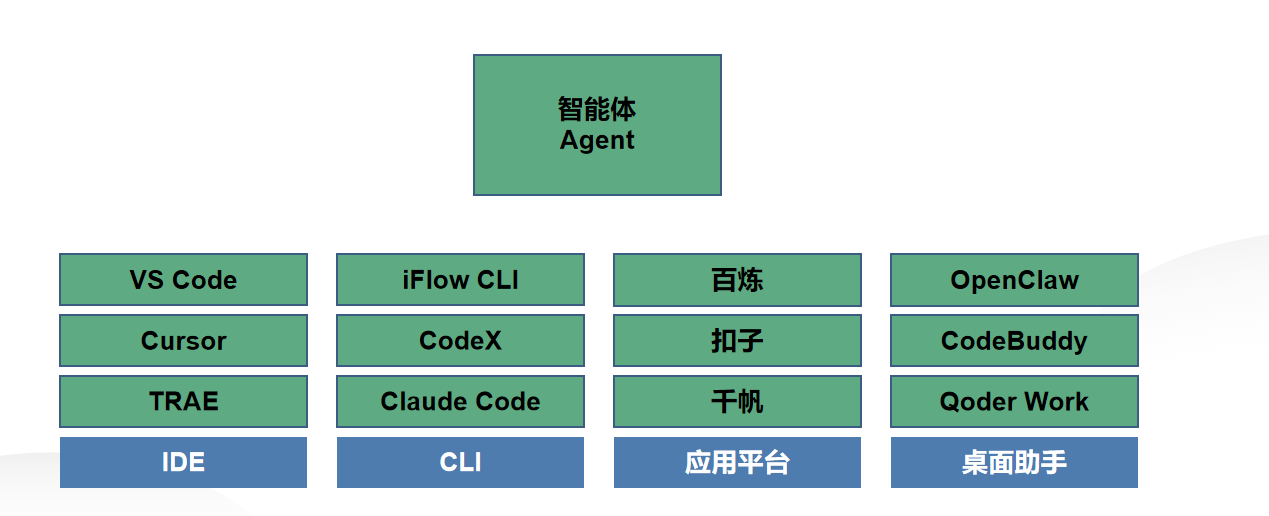
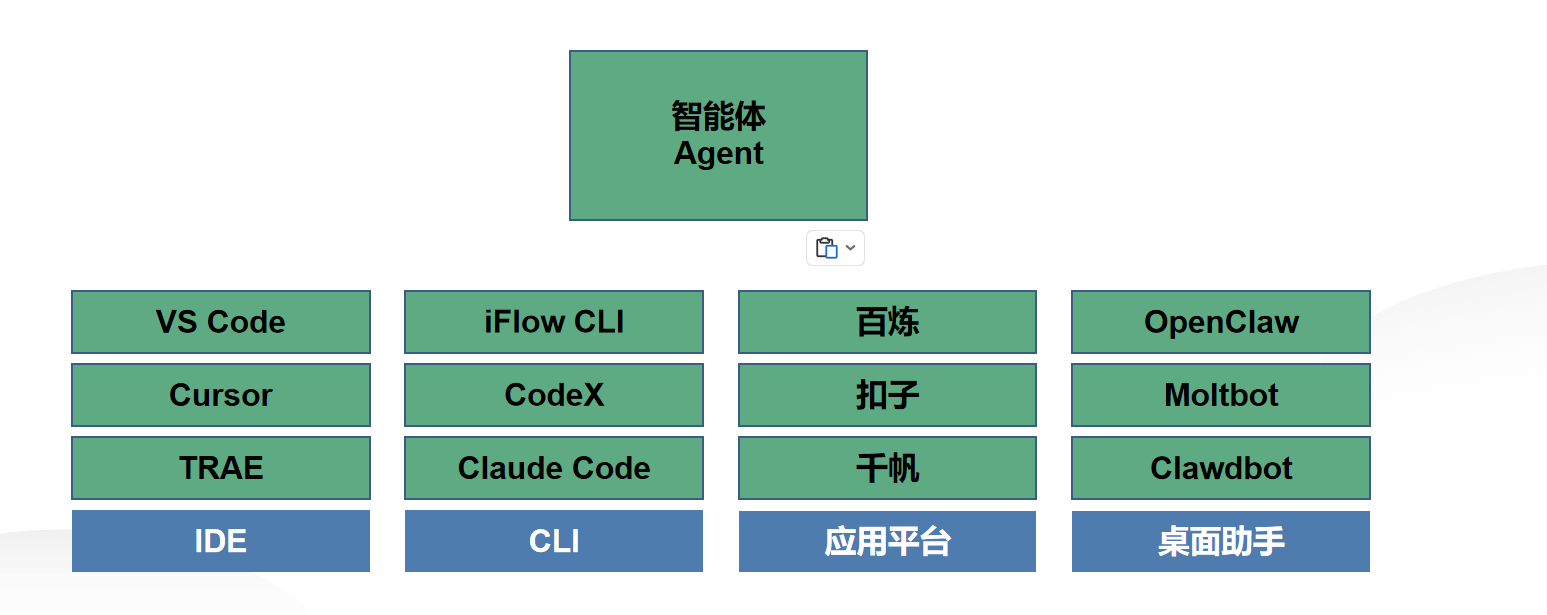
feat: 新增国产工具入局页 + Slide 42-45 替换为PPTX图片

Changed region(s): [[0.0307, 0.4651, 0.922, 0.9612], [0.3688, 0.062, 0.5839, 0.4341], [0.4303, 0.155, 0.5225, 0.3101]]

diff --git a/ai-llm-talk-corporate/index.html b/ai-llm-talk-corporate/index.html
@@ -20,7 +20,7 @@
     <div class="av"></div>
     <div><b>Bruce Lin</b></div>
   </div>
-  <div class="deck-footer"><span class="mono">#AI #LLM #Agent #Ecommerce</span><span class="slide-number" data-current="1" data-total="45"></span></div>
+  <div class="deck-footer"><span class="mono">#AI #LLM #Agent #Ecommerce</span><span class="slide-number" data-current="1" data-total="46"></span></div>
   <div class="notes">大家好！我是 Bruce Lin，欢迎来到今天的分享。今天我们要聊的是一个正在重塑整个世界的技术——人工智能和大语言模型。不管你对 AI 了解多少，今天的目标是让你从 0 到 1 建立一个完整的认知框架。我们会从最基础的概念开始，一路深入到 LLM 的训练原理、Agent 的运作方式，以及我们自己在电商领域的 AI 实战经验。整个过程大概 45 分钟，总共 48 页。好，我们开始。</div>
 </section>
 
@@ -674,22 +674,53 @@
     </div>
   </div>
 
+
+</section>
+
+<!-- ====== SLIDE: Domestic Tools ====== -->
+<section class="slide" data-title="Domestic Tools">
+  <p class="kicker">toolchain · 3/12</p>
+  <h2 class="h2">国产工具的入局</h2>
+  <p class="dim" style="text-align:center;margin-top:4px;font-size:13px">阿里与腾讯的入场——与国际工具（Codex/Claude Code）的差异化优势</p>
+  <div style="display:flex;justify-content:center;gap:28px;margin-top:20px;flex-wrap:wrap">
+    <div class="card card-accent" style="padding:16px 20px;text-align:center;min-width:200px;max-width:280px">
+      <div style="font-size:32px">🧠</div>
+      <div style="font-weight:700;font-size:15px;margin-top:6px">Qoder · 阿里</div>
+      <div class="dim" style="font-size:12px;margin-top:4px;line-height:1.5">本地 IDE Agent<br>对标 Codex CLI / Cursor<br>Spec 驱动开发 · Repo Wiki<br>阿里云 + 通义模型深度整合</div>
+    </div>
+    <div class="card card-accent" style="padding:16px 20px;text-align:center;min-width:200px;max-width:280px">
+      <div style="font-size:32px">☁️</div>
+      <div style="font-weight:700;font-size:15px;margin-top:6px">CodeBuddy · 腾讯</div>
+      <div class="dim" style="font-size:12px;margin-top:4px;line-height:1.5">云端全栈平台<br>对标 Replit / Bolt.new<br>CloudStudio 免环境<br>微信/企微/腾讯云生态闭环</div>
+    </div>
+  </div>
+  <div style="max-width:780px;margin:20px auto 0;padding:12px 16px;border-left:3px solid var(--accent);background:#f8fafc;text-align:left">
+    <p class="dim" style="font-size:12px;line-height:1.7"><strong>vs 国际工具（Codex / Claude Code）：</strong></p>
+    <ul class="dim" style="font-size:12px;line-height:1.7;margin:4px 0 0 16px;padding:0">
+      <li><strong>中文 + 国产生态：</strong>小程序、钉钉、企业微信原生支持——Codex/Claude 做不到</li>
+      <li><strong>合规与数据：</strong>数据不出境，政企客户能过审</li>
+      <li><strong>云服务集成：</strong>Qoder 一键对接阿里云，CodeBuddy 一键对接腾讯云</li>
+      <li><strong>成本优势：</strong>国际工具订阅费用 vs 国产相对低价</li>
+    </ul>
+    <p class="dim" style="font-size:12px;margin-top:8px;line-height:1.6">国际工具强在<strong>模型能力</strong>，国产工具强在<strong>生态闭环</strong>——一个比你会写，一个比你会落地。</p>
+  </div>
+
   <div style="margin-top:12px;text-align:center">
-    <input type="checkbox" id="pain29b" style="display:none">
-    <label for="pain29b" style="display:inline-block;font-size:13px;color:var(--dim);padding:10px 16px;border:1px dashed var(--border);border-radius:8px;cursor:pointer">
+    <input type="checkbox" id="pain31" style="display:none">
+    <label for="pain31" style="display:inline-block;font-size:13px;color:var(--dim);padding:10px 16px;border:1px dashed var(--border);border-radius:8px;cursor:pointer">
       <span style="font-size:16px">💡</span> Vibe Coding
     </label>
-    <div id="pain29b-content" style="display:none;margin-top:10px;max-width:600px;margin-left:auto;margin-right:auto">
+    <div id="pain31-content" style="display:none;margin-top:10px;max-width:600px;margin-left:auto;margin-right:auto">
       <p class="dim" style="font-size:13px;line-height:1.6">零代码的人怎么办？</p>
     </div>
   </div>
-  <style>#pain29b:checked ~ #pain29b-content{display:block!important}</style>
+  <style>#pain31:checked ~ #pain31-content{display:block!important}</style>
 
 </section>
 
 <!-- ====== SLIDE: OpenClaw Intro ====== -->
 <section class="slide" data-title="OpenClaw Intro">
-  <p class="kicker">toolchain · 3/11</p>
+  <p class="kicker">toolchain · 4/12</p>
   <h2 class="h2">OpenClaw — 让普通人也能轻松上手</h2>
   <div style="display:flex;justify-content:center;align-items:center;margin-top:16px">
     <img src="assets/openclaw-intro.png" alt="OpenClaw" style="max-width:80%;max-height:55vh;object-fit:contain">
@@ -701,7 +732,7 @@
 
 <!-- ====== SLIDE: Gateway Architecture (OpenClaw) ====== -->
 <section class="slide" data-title="Gateway Architecture 2">
-  <p class="kicker">toolchain · 4/11</p>
+  <p class="kicker">toolchain · 5/12</p>
   <h2 class="h2">网关架构</h2>
   <div style="display:flex;justify-content:center;align-items:center;margin-top:20px">
     <img src="assets/slide35_img1.png" alt="网关架构" style="max-width:90%;max-height:68vh;object-fit:contain">
@@ -710,7 +741,7 @@
 
 <!-- ====== SLIDE: Security + Open Source (OpenClaw) ====== -->
 <section class="slide" data-title="Security + Open Source 2">
-  <p class="kicker">toolchain · 5/11</p>
+  <p class="kicker">toolchain · 6/12</p>
   <h2 class="h2">安全+开源</h2>
   <div style="display:flex;justify-content:center;align-items:center;margin-top:20px">
     <img src="assets/slide36_img1.png" alt="安全+开源" style="max-width:90%;max-height:68vh;object-fit:contain">
@@ -719,7 +750,7 @@
 
 <!-- ====== SLIDE: Ecosystem (OpenClaw) ====== -->
 <section class="slide" data-title="Ecosystem 2">
-  <p class="kicker">toolchain · 6/11</p>
+  <p class="kicker">toolchain · 7/12</p>
   <h2 class="h2">周边生态</h2>
   <div style="display:flex;justify-content:center;align-items:center;margin-top:20px">
     <img src="assets/slide37_img1.png" alt="周边生态" style="max-width:90%;max-height:68vh;object-fit:contain">
@@ -728,7 +759,7 @@
 
 <!-- ====== SLIDE: OpenClaw Limitations ====== -->
 <section class="slide" data-title="OpenClaw Limitations">
-  <p class="kicker">toolchain · 7/11</p>
+  <p class="kicker">toolchain · 8/12</p>
   <h2 class="h2">OpenClaw 的局限性</h2>
   <div class="grid g2 mt-l" style="max-width:780px;margin:0 auto;gap:16px">
     <div class="card"><h4>🧩 缺乏原生记忆</h4><p class="dim">无法自动积累经验，每次任务从零开始</p></div>
@@ -742,7 +773,7 @@
 
 <!-- ====== SLIDE: Hermes Intro ====== -->
 <section class="slide" data-title="Hermes Intro">
-  <p class="kicker">toolchain · 8/11</p>
+  <p class="kicker">toolchain · 9/12</p>
   <h2 class="h2">Hermes Agent</h2>
   <div style="display:flex;justify-content:center;align-items:center;margin-top:24px">
     <img src="assets/hermes-intro.png" alt="Hermes Agent" style="max-width:85%;max-height:65vh;object-fit:contain">
@@ -751,7 +782,7 @@
 
 <!-- ====== SLIDE: OpenClaw vs Hermes Compare ====== -->
 <section class="slide" data-title="OpenClaw vs Hermes">
-  <p class="kicker">toolchain · 9/11</p>
+  <p class="kicker">toolchain · 10/12</p>
   <h2 class="h2">OpenClaw vs Hermes Agent</h2>
   <p class="dim mt-s" style="text-align:left;font-size:13px">基础功能高度重叠，定时调度、子 Agent 委派、浏览器自动化、20+ 平台消息网关——两者相当。<br>真正的核心差异发生在<strong>任务执行之后</strong>。</p>
   <table class="data-table mt-m">
@@ -767,7 +798,7 @@
 
 <!-- ====== SLIDE: Why Not Replace ====== -->
 <section class="slide" data-title="Why Not Replace">
-  <p class="kicker">toolchain · 10/11</p>
+  <p class="kicker">toolchain · 11/12</p>
   <h2 class="h2">为什么不能互相替代？</h2>
   <table class="data-table mt-l">
     <tr><th>你的需求</th><th>更合适的工具</th></tr>
@@ -783,7 +814,7 @@
   </div>
 </section><!-- SLIDE: Toolchain Summary -->
 <section class="slide" data-title="Toolchain Summary">
-  <p class="kicker">toolchain · 11/11</p>
+  <p class="kicker">toolchain · 12/12</p>
   <h2 class="h2">AI 工具链实战 · 总结</h2>
   <div class="grid g2 mt-l" style="max-width:780px;margin:0 auto;gap:20px">
     <div class="card card-accent">
@@ -824,62 +855,39 @@
 <section class="slide" data-title="Multimodal">
   <p class="kicker">future 1 · multimodal</p>
   <h2 class="h2">进化方向一：多模态</h2>
-  <p class="lede">AI 不再只处理文字，而是同时理解文字、图片、声音、视频。</p>
-  <p class="dim mt-s"><strong>自动驾驶——典型多模态场景：</strong>摄像头 + 雷达 + 激光雷达 + GPS + 车联网。路况瞬息万变、容错为零，必须全模态融合。</p>
-  <table class="data-table mt-m">
-    <tr><th>品牌方案</th><th>技术路线</th><th>核心优势</th></tr>
-    <tr><td>特斯拉 FSD</td><td>纯视觉</td><td>算法强、全球覆盖广</td></tr>
-    <tr><td>华为 ADS</td><td>激光雷达</td><td>雨天夜间强、保守安全</td></tr>
-    <tr><td>小鹏 XNGP</td><td>激光雷达</td><td>城市最流畅、接管最少</td></tr>
-    <tr><td>理想 AD</td><td>多传感器融合</td><td>最平顺、不晕车、家庭友好</td></tr>
-  </table>
-  <p class="dim mt-s">医疗：影像+病历+语音 · 工业：画面+声音+传感器 · 教育：表情+笔迹+发音</p>
-  <div class="notes">未来第一个进化方向是多模态。现在的 AI 大多只能处理文字，但未来的 AI 要像人一样同时处理多种信息。最好的例子就是自动驾驶——一辆车要同时接收摄像头画面、雷达信号、激光雷达点云、GPS 位置、高精地图、语音指令，然后在毫秒级做出决策。这就是多模态的终极场景。国内四大品牌各有路线：特斯拉走纯视觉路线，算法极强但国内路况适配弱；华为走激光雷达路线，安全保守但贵；小鹏的城市自动驾驶体验最流畅；理想侧重家用舒适，最平顺不晕车。医疗、工业、教育也都在多模态方向快速进化。</div>
+  <div style="display:flex;justify-content:center;align-items:center;margin-top:16px">
+    <img src="assets/slide44_img.png" alt="进化方向一：多模态" style="max-width:90%;max-height:65vh;object-fit:contain">
+  </div>
+  <div class="notes">未来第一个进化方向是多模态。现在的 AI 大多只能处理文字，但未来的 AI 要像人一样同时处理多种信息。最好的例子就是自动驾驶——一辆车要同时接收摄像头画面、雷达信号、激光雷达点云、GPS 位置、高精地图、语音指令，然后在毫秒级做出决策。国内四大品牌各有路线：特斯拉走纯视觉路线，算法极强；华为走激光雷达路线，安全保守；小鹏的城市自动驾驶体验最流畅；理想侧重家用舒适。医疗、工业、教育也都在多模态方向快速进化。</div>
 </section>
 
-<!-- ====== SLIDE 47: Edge Deployment ====== -->
 <section class="slide" data-title="Edge Deployment">
   <p class="kicker">future 2 · edge</p>
   <h2 class="h2">进化方向二：端侧部署</h2>
-  <p class="lede">AI 不再依赖云端，在手机、PC、嵌入式设备上本地运行。</p>
-  <div class="grid g3 mt-l" style="max-width:780px;margin:0 auto;gap:16px">
-    <div class="card card-accent"><h4>✂️ 模型剪枝</h4><p class="dim">裁掉贡献小的参数<br>体积缩小 50-90%<br>精度损失小于 2%</p></div>
-    <div class="card card-accent"><h4>⚖️ 量化</h4><p class="dim">FP32 → INT8 / INT4<br>推理提速 2-4 倍<br>内存大幅下降</p></div>
-    <div class="card card-accent"><h4>🔬 蒸馏</h4><p class="dim">大模型教小模型<br>小模型获得大模型<br>90% 以上的能力</p></div>
+  <div style="display:flex;justify-content:center;align-items:center;margin-top:16px">
+    <img src="assets/slide45_img.png" alt="进化方向二：端侧部署" style="max-width:90%;max-height:65vh;object-fit:contain">
   </div>
-  <p class="dim mt-m"><strong>应用场景：</strong>隐私保护 · 毫秒级响应 · 离线可用 · 大小模型混搭（本地小模型 + 云端大模型兜底）</p>
-  <div class="notes">第二个进化方向是端侧部署。为什么要把 AI 放到你的手机和电脑上而不是云端？三个原因：隐私——你的数据不用上传到别人服务器；延迟——本地推理毫秒级响应；离线——没网也能用。技术上有三条路径：剪枝、量化、蒸馏。苹果的 Apple Intelligence 和 Google 的 Gemini Nano 已经在手机上跑本地 AI 了。未来是一个"大小模型混搭"的时代——你的手机上的小模型处理日常任务，遇到复杂问题自动调用云端大模型。</div>
+  <div class="notes">第二个进化方向是端侧部署。为什么要把 AI 放到你的手机和电脑上而不是云端？三个原因：隐私——你的数据不用上传到别人服务器；延迟——本地推理毫秒级响应；离线——没网也能用。技术上有三条路径：剪枝、量化、蒸馏。苹果的 Apple Intelligence 和 Google 的 Gemini Nano 已经在手机上跑本地 AI 了。未来是大小模型混搭的时代。</div>
 </section>
 
-<!-- ====== SLIDE 48: Agent Alliance ====== -->
 <section class="slide" data-title="Agent Alliance">
   <p class="kicker">future 3 · alliance</p>
   <h2 class="h2">进化方向三：智能体联盟</h2>
-  <div class="grid g3 mt-l" style="max-width:780px;margin:0 auto;gap:16px">
-    <div class="card card-accent"><h4>🖥️ 系统层融合</h4><p class="dim">不同操作系统/平台 Agent 互通协作<br>Windows Agent → macOS Agent → Linux Agent</p></div>
-    <div class="card card-accent"><h4>🏢 企业层融合</h4><p class="dim">不同企业/组织的 Agent 跨边界协作<br>品牌方 Agent → 物流 Agent → 平台 Agent</p></div>
+  <div style="display:flex;justify-content:center;align-items:center;margin-top:16px">
+    <img src="assets/slide46_img.png" alt="进化方向三：智能体联盟" style="max-width:90%;max-height:65vh;object-fit:contain">
   </div>
-  <p class="lede mt-l"><strong>终极愿景：</strong>生产 Agent、物流 Agent、销售 Agent、售后 Agent 自动串联整条产业链，像人类供应链一样分工协作。</p>
-  <p class="dim mt-s">需要标准化 Agent 之间的通信协议——就像人类公司之间用 EDI 交换订单一样。</p>
-  <div class="notes">第三个方向是智能体联盟。现在的 Agent 大多是孤立的——你的 Agent 只管你的业务。但未来不同企业的 Agent 应该能自动协作。比如你是品牌方，你的订单 Agent 发现了爆款趋势，自动通知工厂的生产 Agent 加产，生产 Agent 完成后自动通知物流 Agent 发货，物流 Agent 到了自动通知你的销售 Agent 上架。全链路不需要人插手。这需要标准化 Agent 之间的通信协议——就像人类公司之间用 EDI 交换订单一样，Agent 之间需要一个类似的"Agent 间通信协议"。这是未来三到五年的重点方向。</div>
+  <div class="notes">第三个方向是智能体联盟。现在的 Agent 大多是孤立的。但未来不同企业的 Agent 应该能自动协作——订单 Agent 发现爆款，自动通知生产 Agent 加产，生产完成后通知物流 Agent 发货，到了自动通知销售 Agent 上架。全链路不需要人插手。这需要标准化 Agent 之间的通信协议，是未来三到五年的重点方向。</div>
 </section>
 
-<!-- ====== SLIDE 49: Vertical Industries ====== -->
 <section class="slide" data-title="Vertical Industries">
   <p class="kicker">future 4 · vertical</p>
   <h2 class="h2">进化方向四：垂直产业的深耕</h2>
-  <table class="data-table mt-l">
-    <tr><th>行业</th><th>AI 应用方向</th><th>成熟度</th><th>关键壁垒</th></tr>
-    <tr><td>电商</td><td>智能客服、选品分析、自动运营</td><td>★★★★</td><td>商品知识图谱</td></tr>
-    <tr><td>制造</td><td>质检、预测性维护、供应链优化</td><td>★★★</td><td>产线数据积累</td></tr>
-    <tr><td>金融</td><td>风控、投研、合规审查、智能投顾</td><td>★★★★</td><td>监管合规</td></tr>
-    <tr><td>医疗</td><td>辅助诊断、药物研发、病历管理</td><td>★★★</td><td>临床验证</td></tr>
-    <tr><td>法律</td><td>合同审查、案例检索、文书生成</td><td>★★</td><td>法律准确性要求极高</td></tr>
-    <tr><td>教育</td><td>个性化学习、自动批改、智能辅导</td><td>★★★</td><td>教育效果评估</td></tr>
-  </table>
-  <p class="lede mt-m"><strong>核心趋势：</strong>通用大模型是底座，行业 Know-how 加私有数据才是真正的壁垒。未来不是"AI 替代行业"，而是"行业 AI 化"。</p>
-  <div class="notes">最后一个方向是垂直产业的深耕。通用大模型虽然厉害，但它不懂你的行业。就像 GPT-4 能写文章但不知道镀铝锌钢板的出口流程。行业 AI 需要的是"通用能力 + 行业知识"。电商、金融已经走在前面，法律和教育的门槛更高但潜力巨大。未来的竞争不在模型本身，而在谁拥有更深的行业理解和更多的私有数据。通用大模型是底座，行业 Know-how 才是壁垒。</div>
+  <div style="display:flex;justify-content:center;align-items:center;margin-top:16px">
+    <img src="assets/slide47_img.png" alt="进化方向四：垂直产业的深耕" style="max-width:90%;max-height:65vh;object-fit:contain">
+  </div>
+  <div class="notes">最后一个方向是垂直产业的深耕。通用大模型虽然厉害，但它不懂你的行业。行业 AI 需要的是通用能力加行业知识。电商、金融已经走在前面，法律和教育的门槛更高但潜力巨大。未来的竞争不在模型本身，而在谁拥有更深的行业理解和更多的私有数据。通用大模型是底座，行业 Know-how 才是壁垒。</div>
 </section>
+
 
 <!-- ====== SLIDE 50: Q&A / Thanks ====== -->
 <section class="slide center tc" data-title="Q and A">
@@ -912,4 +920,10 @@
 
 
 
+
+
+
+
+
+
 